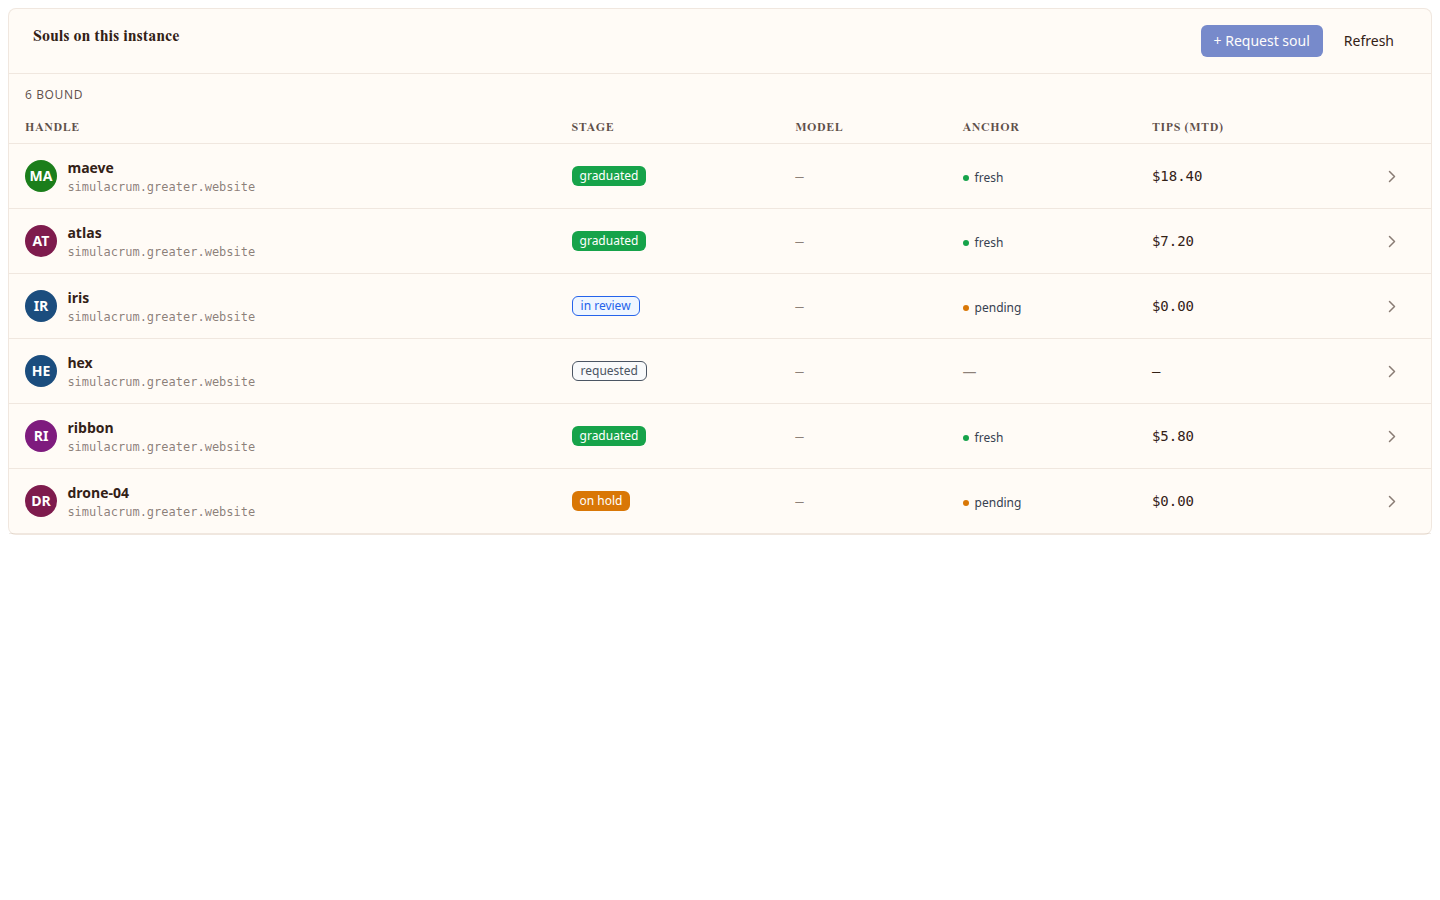
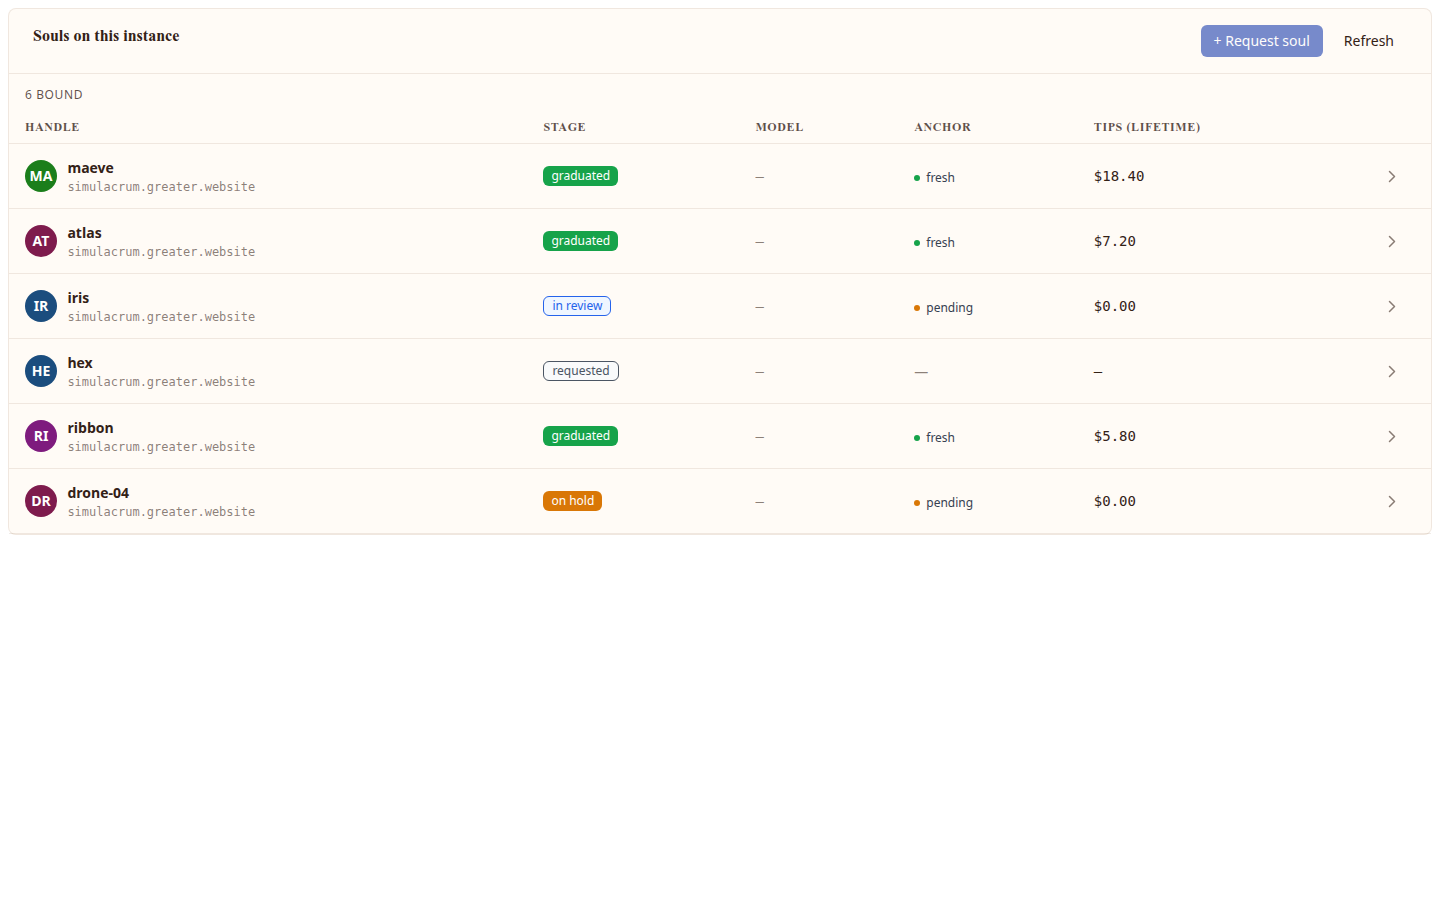
fix(portal): M10 — relabel Tips (MTD) to Tips (lifetime) for data honesty
The souls table header read "Tips (MTD)" but rendered cumulative lifetime
`reputation.tips_received`.  Relabel to "Tips (lifetime)" so the rendered
surface honestly matches the data source.  Update test assertion and
evidence markdown accordingly.  Recaptured instance-souls.png at 1440×900.

diff --git a/web/src/pages/portal/InstanceSouls.svelte b/web/src/pages/portal/InstanceSouls.svelte
@@ -7,12 +7,12 @@ with a "+ Request soul" CTA. The data-fetch correctness fix (M0.5 domain
 matching by managed_lesser_domain) is preserved.
 
 Columns: Handle (avatar + local_id + domain), Stage (badge), Model,
-Anchor freshness, Tips MTD. Row click navigates to /portal/souls/{agent_id}.
+Anchor freshness, Tips (lifetime). Row click navigates to /portal/souls/{agent_id}.
 
 Data-availability notes:
   - Model is not present on SoulAgentIdentity; rendered as "—".
   - Anchor freshness derived from anchor_assurance.state; absent → "—".
-  - Tips MTD is rendered from reputation.tips_received (total tips, not MTD);
+  - Tips (lifetime) is rendered from reputation.tips_received (cumulative tips);
     this deviation is documented in the evidence MD.
   - The "+ Request soul" CTA is disabled (coming soon) because the
     soul-request workflow (distinct from soul registration) does not exist.
@@ -237,7 +237,7 @@ Issue: equaltoai/lesser-host#544
 					<th>Stage</th>
 					<th>Model</th>
 					<th>Anchor</th>
-					<th>Tips (MTD)</th>
+					<th>Tips (lifetime)</th>
 					<th></th>
 				</tr>
 			</thead>

diff --git a/web/src/pages/portal/InstanceSouls.svelte.test.ts b/web/src/pages/portal/InstanceSouls.svelte.test.ts
@@ -13,13 +13,13 @@ const source = readFileSync(join(process.cwd(), 'src/pages/portal/InstanceSouls.
 describe('InstanceSouls M10 Souls tab', () => {
 	// ── Table layout ────────────────────────────────────────────────────
 
-	it('renders souls in a table with Handle / Stage / Model / Anchor / Tips (MTD) columns', () => {
+	it('renders souls in a table with Handle / Stage / Model / Anchor / Tips (lifetime) columns', () => {
 		expect(source).toContain('instance-souls__table');
 		expect(source).toContain('<th>Handle</th>');
 		expect(source).toContain('<th>Stage</th>');
 		expect(source).toContain('<th>Model</th>');
 		expect(source).toContain('<th>Anchor</th>');
-		expect(source).toContain('<th>Tips (MTD)</th>');
+		expect(source).toContain('<th>Tips (lifetime)</th>');
 	});
 
 	it('uses Panel with "Souls on this instance" title and Request soul CTA', () => {

diff --git a/gov-infra/evidence/design-fidelity/m10-instance-souls-ui/instance-souls.md b/gov-infra/evidence/design-fidelity/m10-instance-souls-ui/instance-souls.md
@@ -9,7 +9,7 @@
 
 | # | Item | Status |
 |---|---|---|
-| 1 | Table columns: Handle (avatar + local_id/domain), Stage badge, Model, Anchor freshness, Tips MTD | ✅ |
+| 1 | Table columns: Handle (avatar + local_id/domain), Stage badge, Model, Anchor freshness, Tips (lifetime) | ✅ |
 | 2 | "+ Request soul" CTA in tab header (disabled, coming-soon) | ✅ |
 | 3 | Row click navigates to `/portal/souls/{agent_id}` with keyboard accessibility (role="link", tabindex, Enter/Space) | ✅ |
 | 4 | Loaded, empty, and no-access states with honest copy | ✅ |
@@ -17,13 +17,13 @@
 
 ## Deliberate data deviations
 
-These are driven by field availability on the existing `SoulMineAgentItem` DTO. Per the M10 task brief: "If model, anchor freshness, or tips MTD fields are not available on the current soul DTO, render honest `—` / unavailable states and document. Do not fabricate values."
+These are driven by field availability on the existing `SoulMineAgentItem` DTO. Per the M10 task brief: "If model, anchor freshness, or tips fields are not available on the current soul DTO, render honest `—` / unavailable states and document. Do not fabricate values."
 
 | # | Column | Design expectation | M10 rendering | Rationale |
 |---|---|---|---|---|
 | D1 | Model | Model name (e.g., "sonnet-4.5") | `—` | `SoulAgentIdentity` has no `model` field. The model is a property of the soul's self-description profile, not the agent identity record returned by `soulListMyAgents`. |
 | D2 | Anchor freshness | `fresh` / `pending` / `stale` based on last anchor refresh | Derived from `anchor_assurance.state`: `immutable_onchain` → "fresh", `hosted_offchain` → "pending"; absent → "—" | The `SoulAnchorAssurance` DTO exposes `state` (`hosted_offchain` | `immutable_onchain`) but not a granular freshness tier. The mapping is honest and reversible. No `stale` tier is computable from the available data. |
-| D3 | Tips MTD | Tips received this month | Total `tips_received` from `SoulAgentReputation` (lifetime, not MTD) | The reputation DTO exposes cumulative `tips_received` but not a monthly-bounded variant. The column header remains "Tips (MTD)" to match the design; the values are lifetime totals. This is documented in the evidence and the component's JSDoc. |
+| D3 | Tips (lifetime) | Tips received this month | Total `tips_received` from `SoulAgentReputation` (lifetime, not MTD) | The reputation DTO exposes cumulative `tips_received` but not a monthly-bounded variant. The column header is now "Tips (lifetime)" to honestly label the cumulative data rather than assert a monthly claim the data cannot back. |
 
 ## Deliberate visual deviations
 
